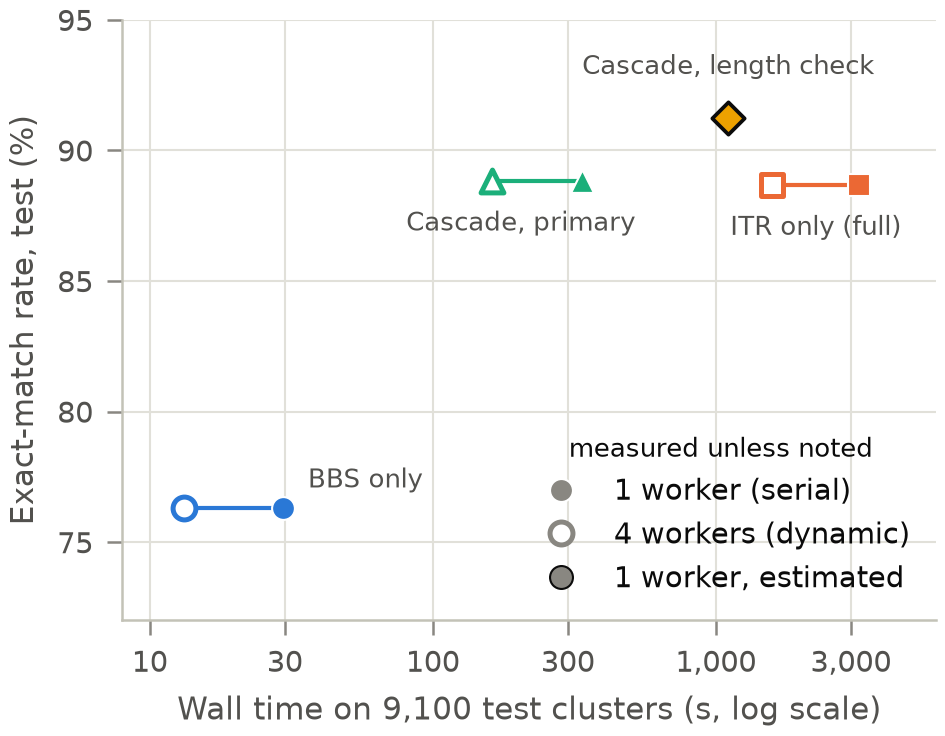
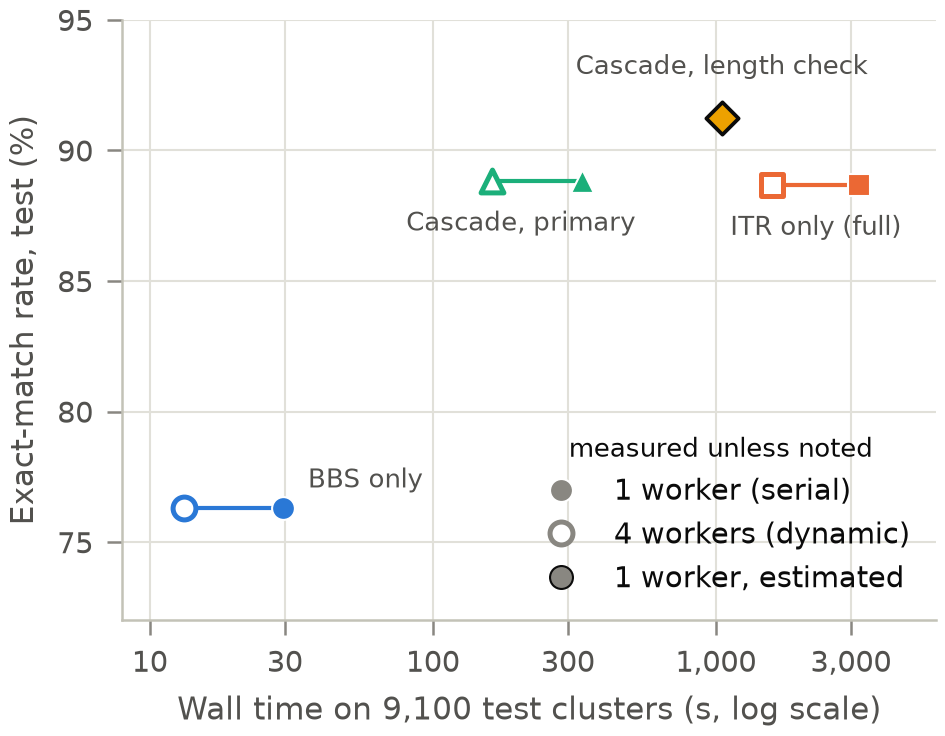
f9: rescale the length-check time estimate to the cascade day (review fix)
The routed-cost sums come from the full-ITR day (~6% slower). Scale them by the primary
cascade's measured ratio (ITR stage 307.4 s / 324.6 s for the same clusters on the full-ITR
day): estimate ~1,049 s instead of ~1,106 s. Caption updated.

Changed region(s): [[0.6138, 0.0625, 0.9206, 0.1875]]

diff --git a/scripts/make_figures.py b/scripts/make_figures.py
@@ -444,7 +444,10 @@ def f9_time_vs_accuracy(d: dict, cfg: dict):
         "adaptive": {1: cells.loc["serial_p1", "makespan_s_median"], 4: cells.loc["dynamic_p4", "makespan_s_median"]},
         "itr_only": {1: itr.loc["serial_p1", "makespan_s_median"], 4: itr.loc["dynamic_p4", "makespan_s_median"]},
     }
-    lc_est = cells.loc["serial_p1", "bbs_s_median"] + cost.loc["adaptive_lengthcheck", "routed_itr_s_median"]
+    # The routed-cost sums come from the full-ITR day; rescale to the cascade day by the primary
+    # cascade's own ratio (its ITR stage as measured / the same clusters on the full-ITR day).
+    day = cells.loc["serial_p1", "itr_s_median"] / cost.loc["adaptive", "routed_itr_s_median"]
+    lc_est = cells.loc["serial_p1", "bbs_s_median"] + cost.loc["adaptive_lengthcheck", "routed_itr_s_median"] * day
     fig, ax = plt.subplots(figsize=(COL1, 2.6))
     for method, by_p in points.items():
         label, color, marker = METHODS[method]

diff --git a/figures/CAPTIONS.md b/figures/CAPTIONS.md
@@ -70,4 +70,6 @@ adaptive runs. Full ITR was timed on a different day than the cascades; the same
 clusters ran about 6–7% slower that day, so the measured full-ITR/cascade ratio (9.5× serial,
 9.7× on four workers) is about 9× after correction. The length-check cascade was not timed:
 its point is BBS stage time plus the summed controlled ITR time of its 5,472 routed clusters,
-taken from the serial full-ITR runs (an estimate). Medians of three repetitions.
+taken from the serial full-ITR runs and rescaled to the cascade day by the primary cascade's
+measured ratio (307.4 s measured vs 324.6 s for the same clusters on the full-ITR day), an
+estimate of ≈ 1,050 s. Medians of three repetitions.
